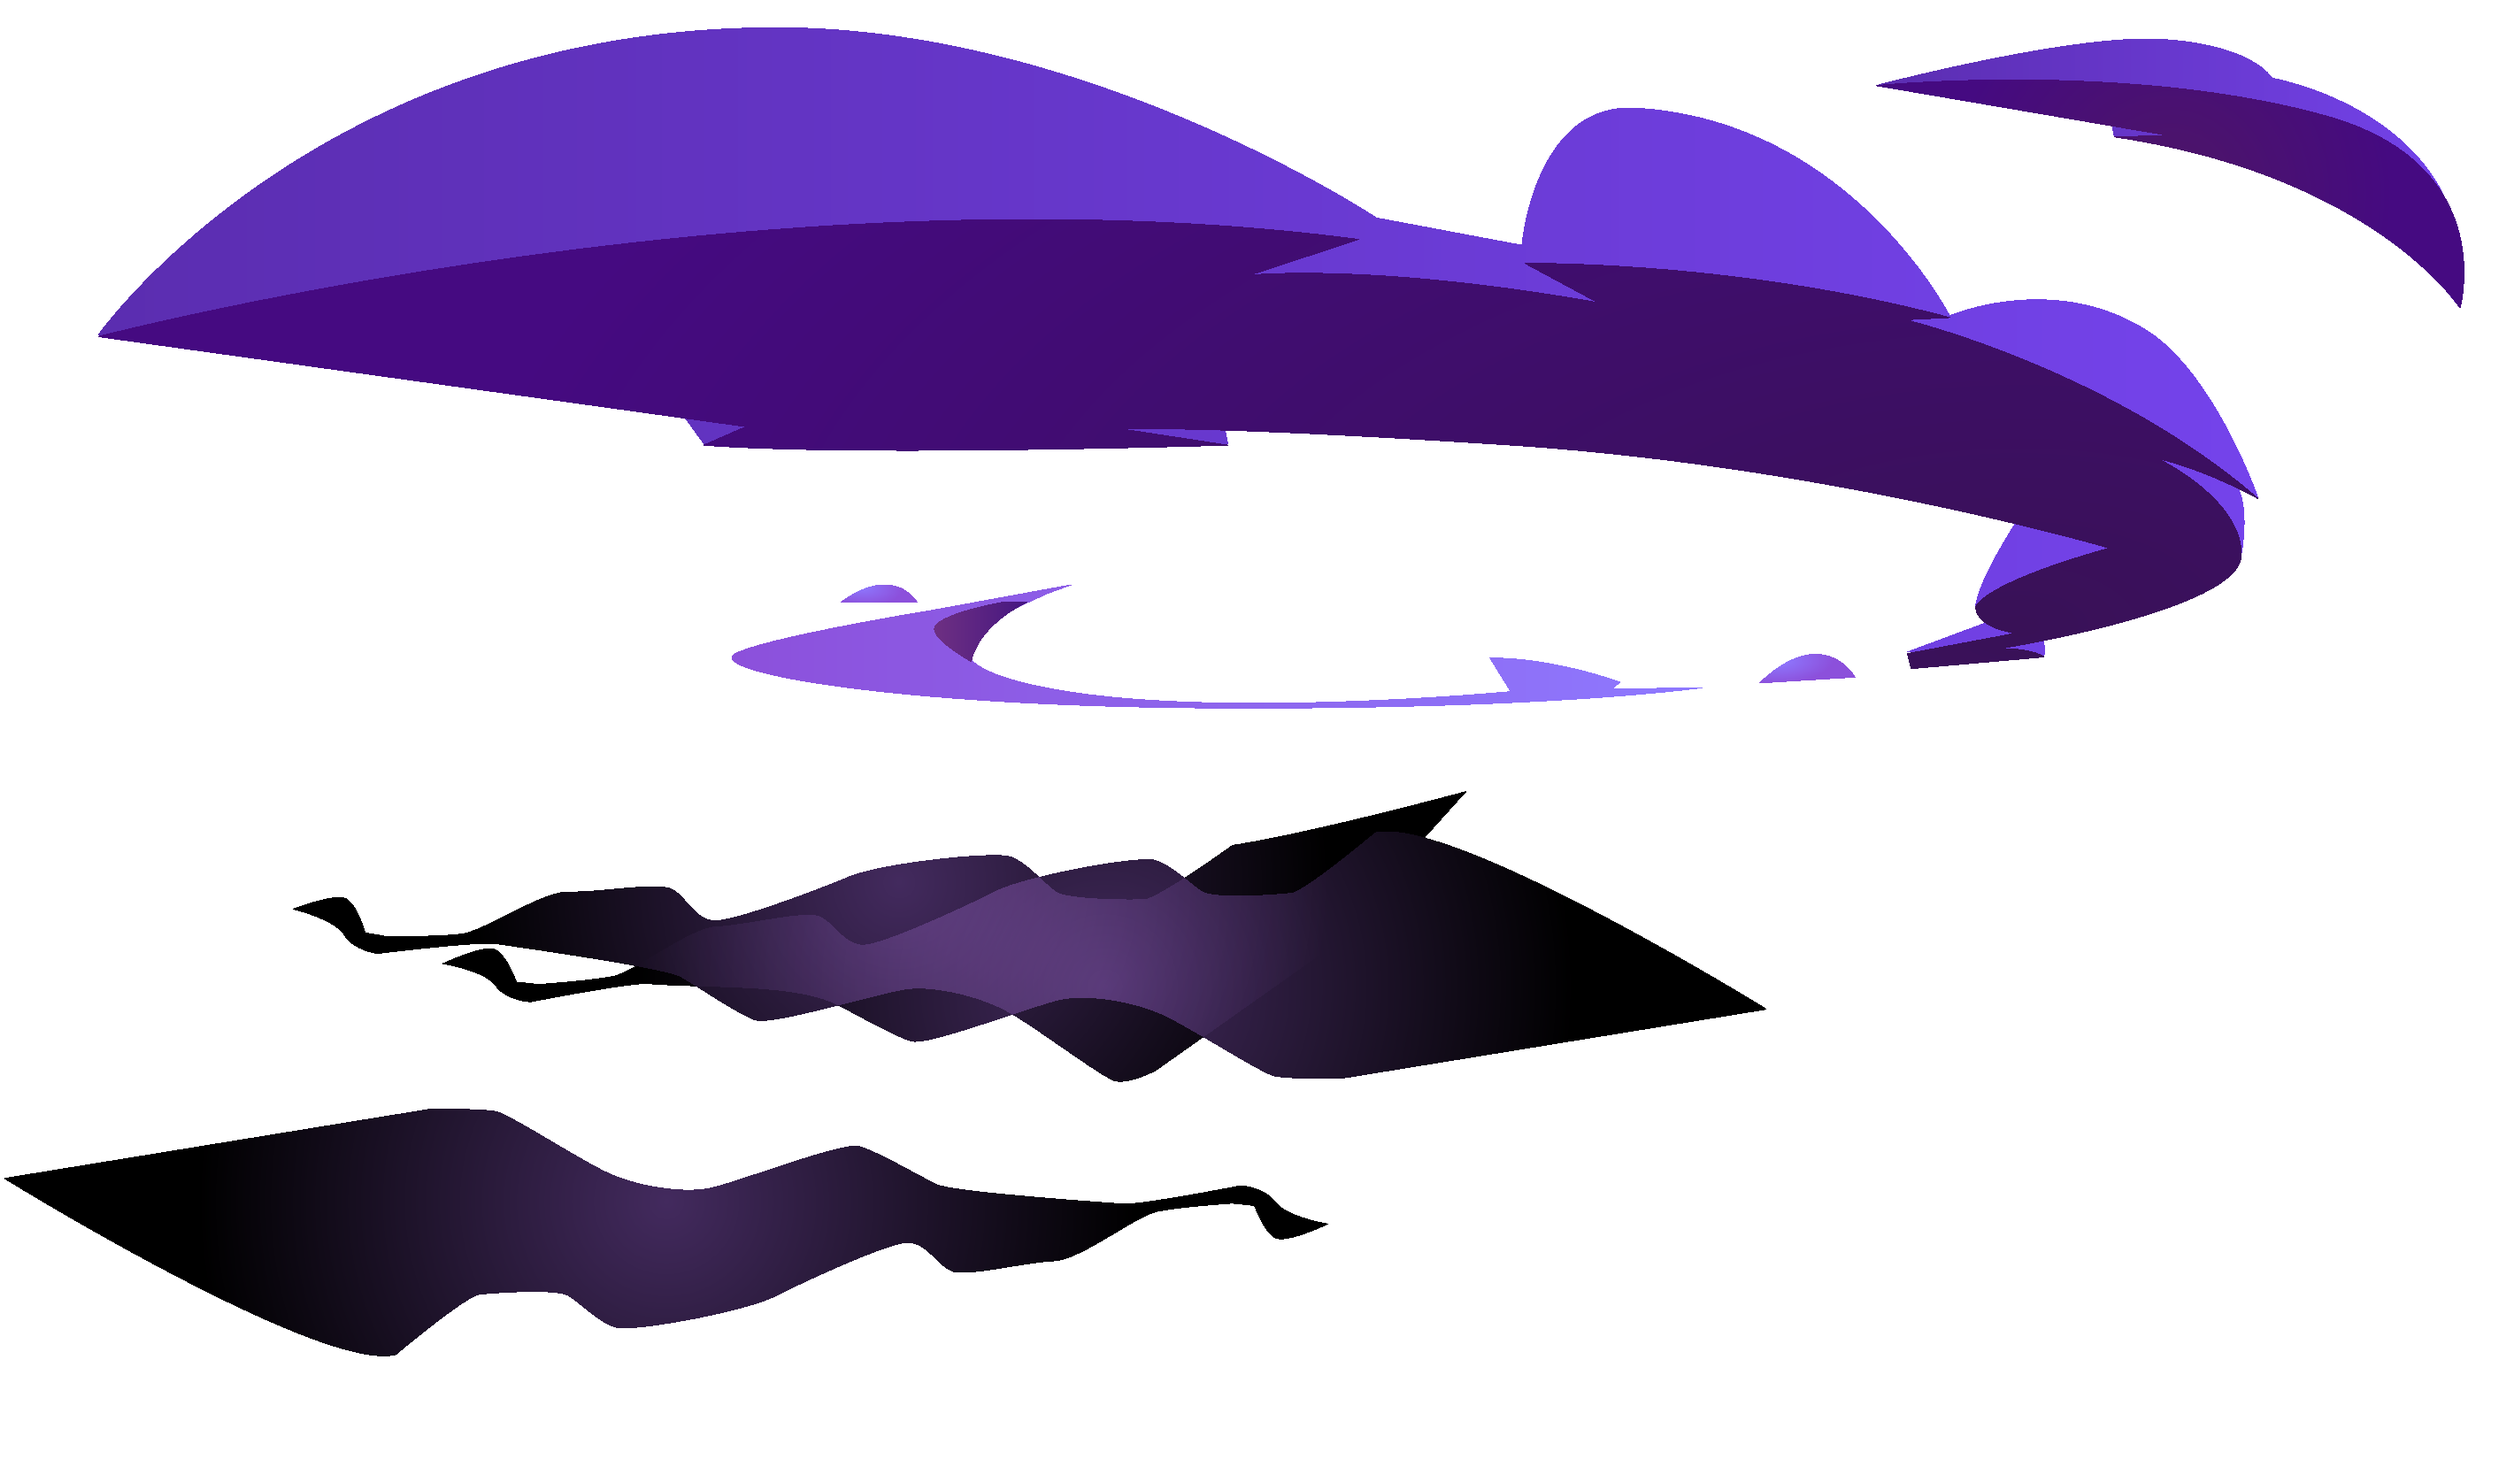
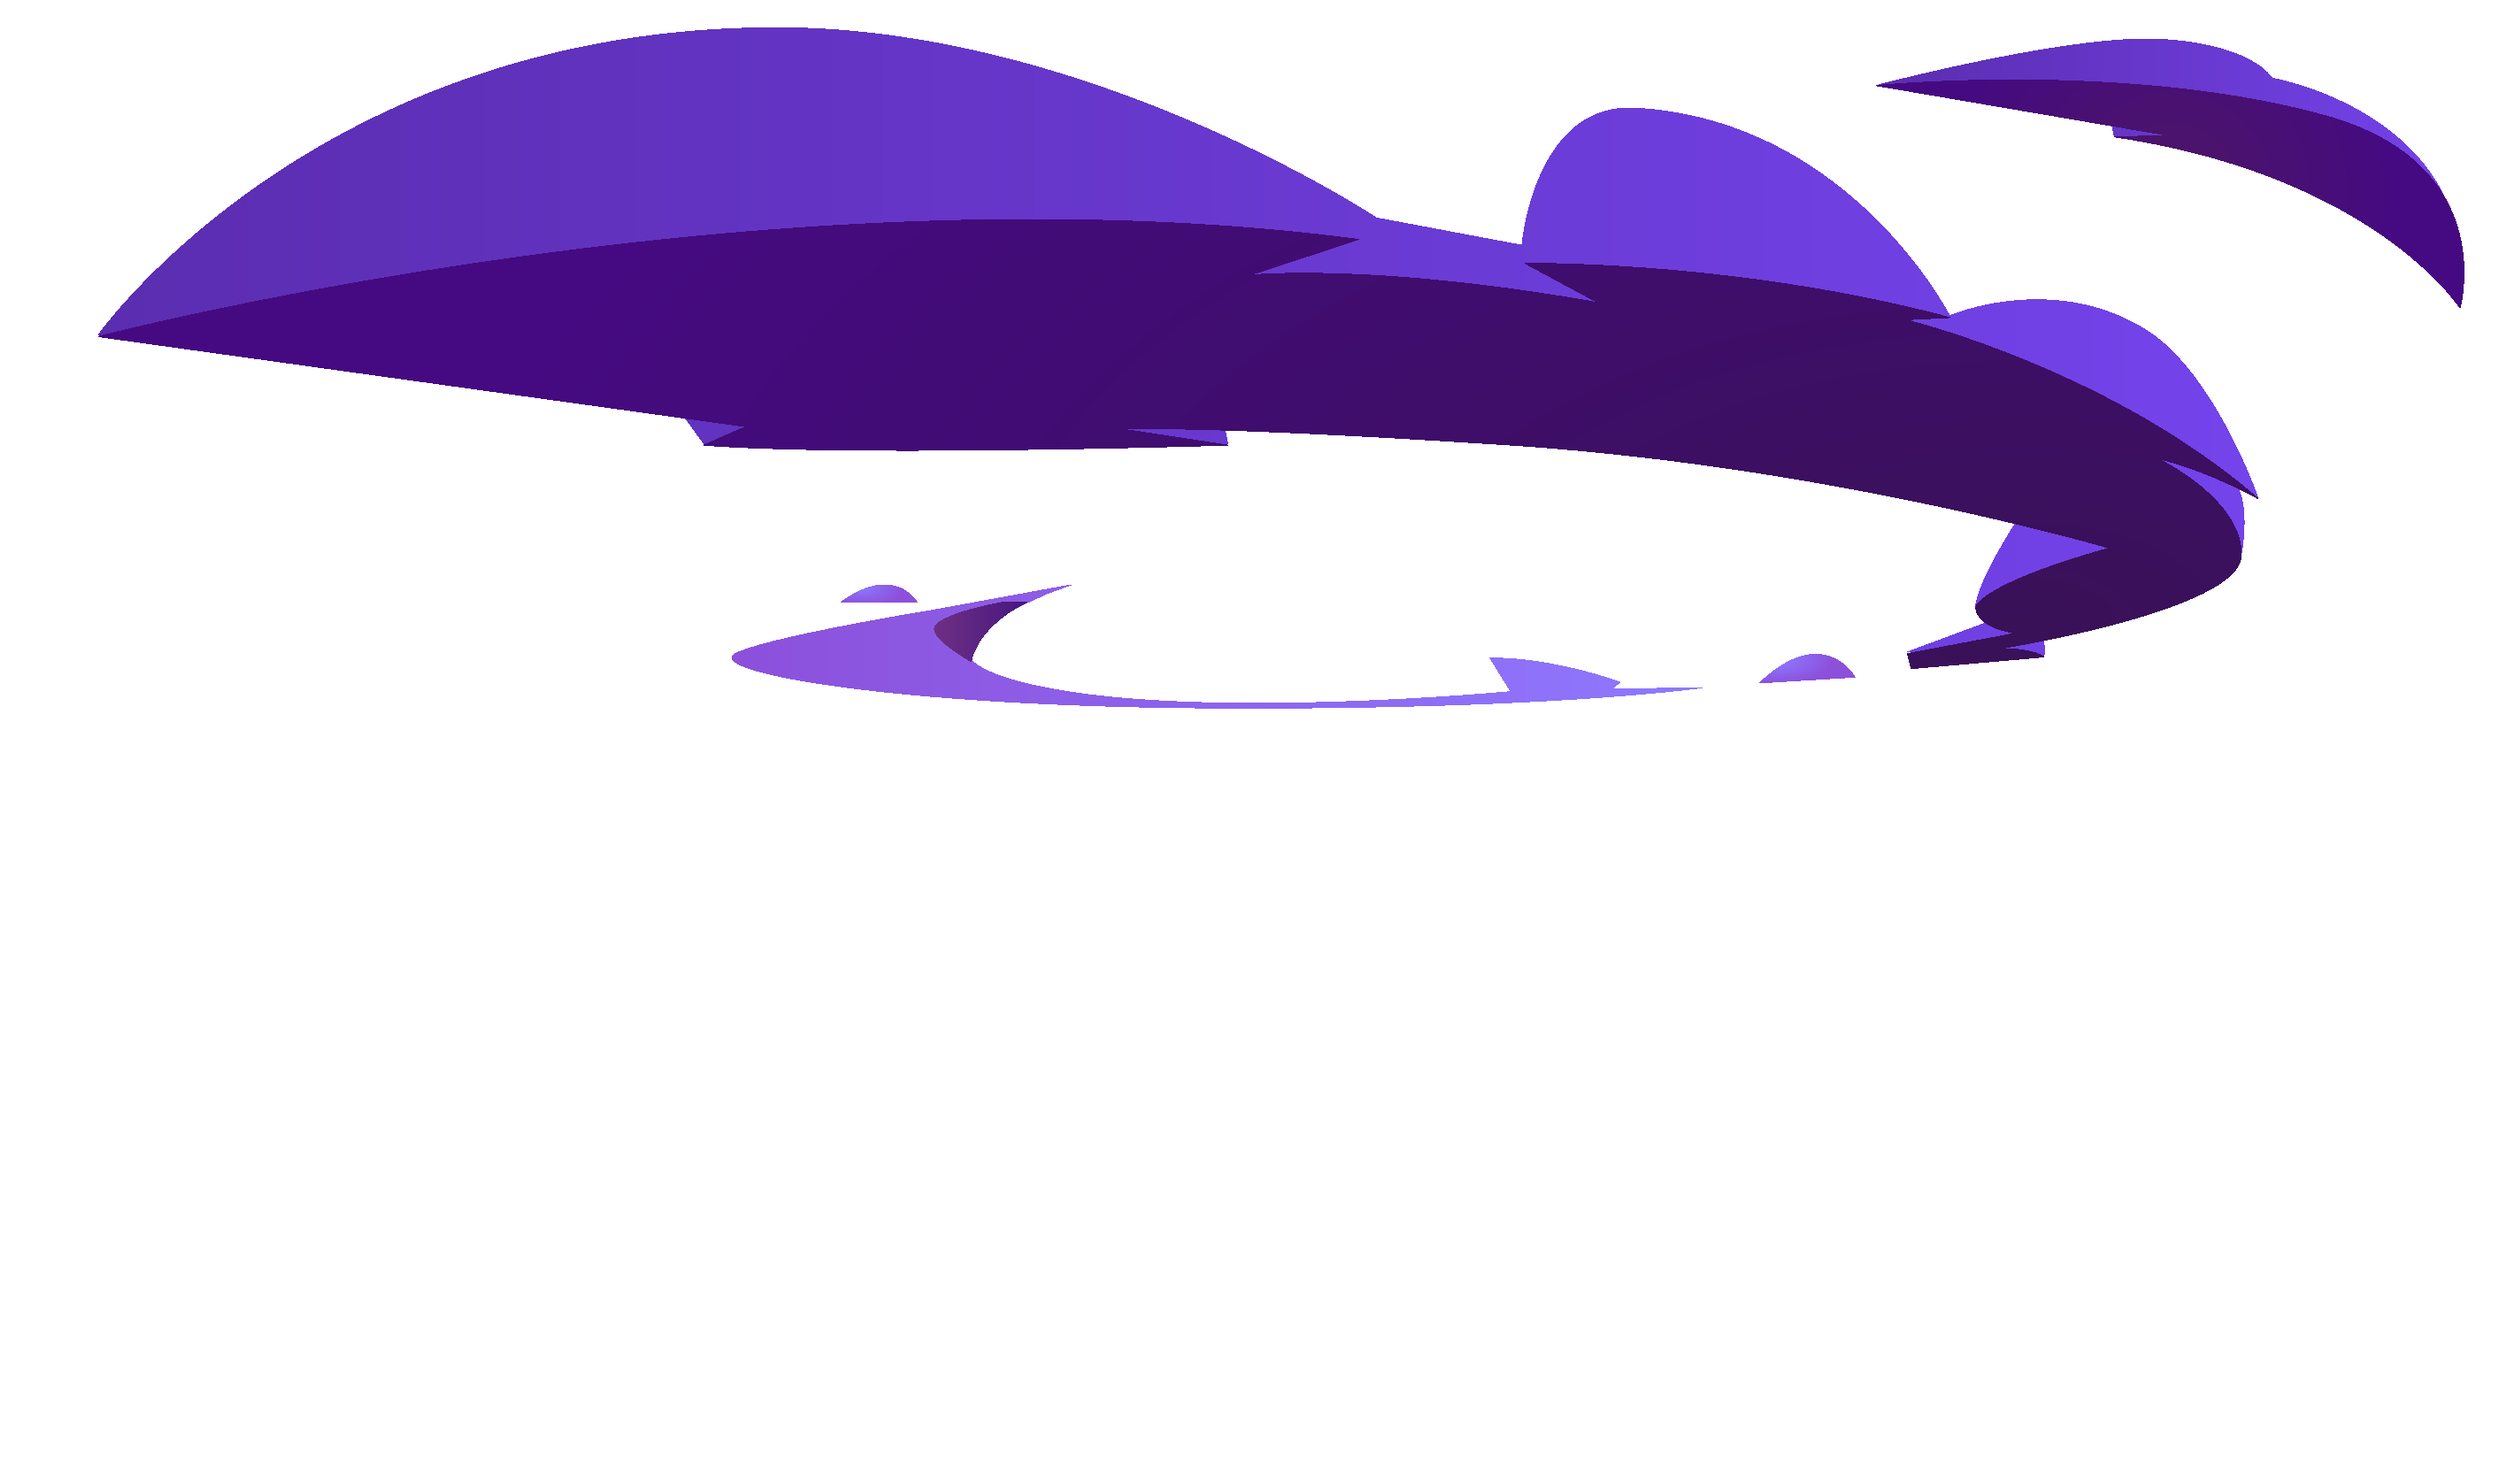
parallax pas fini

Changed region(s): [[0.1246, 0.5303, 0.7167, 0.7487], [0.0, 0.7487, 0.5297, 0.9358]]

diff --git a/frontend/src/components/home/HomeParallax.jsx b/frontend/src/components/home/HomeParallax.jsx
@@ -1,79 +1,115 @@
-import React, { useEffect, useRef } from "react"
+// import React, { useEffect, useRef, useState } from "react"
 
-import cloudsBack from "../../assets/images/parallax/cloudsBack1.png"
-import cloudsFront from "../../assets/images/parallax/cloudsFront1.png"
-import moon from "../../assets/images/parallax/moon1.png"
-import castle from "../../assets/images/parallax/castle1.png"
-import stars from "../../assets/images/parallax/stars1.png"
+// import cloudsBack from "../../assets/images/parallax/cloudsBack1.png"
+// import cloudsFront from "../../assets/images/parallax/cloudsFront1.png"
+// import moon from "../../assets/images/parallax/moonDown2.png"
+// import castle from "../../assets/images/parallax/castle1.png"
+// import stars from "../../assets/images/parallax/stars1.png"
 
-import "./HomeParallax.scss"
+// import "./HomeParallax.scss"
 
-export default function HomeParallax() {
-  const parallaxSectionRef = useRef(null)
-  const castleRef = useRef(null)
-  const cloudsBackRef = useRef(null)
-  const cloudsFrontRef = useRef(null)
-  const moonRef = useRef(null)
-  const starsRef = useRef(null)
+// export default function HomeParallax() {
+//   const parallaxSectionRef = useRef(null)
+//   const castleRef = useRef(null)
+//   const cloudsBackRef = useRef(null)
+//   const cloudsFrontRef = useRef(null)
+//   const moonRef = useRef(null)
+//   const starsRef = useRef(null)
+//   const [scrollPosition, setScrollPosition] = useState(0)
+//   const [scrollPastparallax, setScrollPastParallax] = useState(false)
+//   const [parallaxInProgress, setParallaxInProgress] = useState(false)
 
-  useEffect(() => {
-    const handleScroll = () => {
-      const value = window.scrollY
-      const parallaxSectionHeight = parallaxSectionRef.current.clientHeight
+//   useEffect(() => {
+//     const handleScroll = (e) => {
+//       const value = window.scrollY
+//       const parallaxSectionHeight = parallaxSectionRef.current.clientHeight
 
-      if (value <= parallaxSectionHeight) {
-        // castleRef.current.style.top = value * 0.5 + "px"
-        cloudsBackRef.current.style.left = value * 1 + "px"
-        cloudsFrontRef.current.style.left = value * 1.5 + "px"
-        // moonRef.current.style.top = -value * 1.5 + "px"
-        starsRef.current.style.left = value * 0.25 + "px"
+//       if (value <= parallaxSectionHeight && !parallaxInProgress) {
+//         e.preventDefault()
+//         cloudsFrontRef.current.style.left = -value * 1.5 + "px"
+//         moonRef.current.style.top = value * 1 + "px"
+//         starsRef.current.style.left = value * 0.25 + "px"
 
-        const moonStartPosition = parallaxSectionHeight * 0.5
-        const moonEndPosition = 0
-        const moonPosition =
-          moonStartPosition +
-          (value / parallaxSectionHeight) *
-            (moonEndPosition - moonStartPosition)
-        moonRef.current.style.top = moonPosition + "px"
+//         const moonStartPosition = parallaxSectionHeight * 0.5
+//         const moonEndPosition = 0
+//         const moonPosition =
+//           moonStartPosition +
+//           (value / parallaxSectionHeight) *
+//             (moonEndPosition - moonStartPosition)
+//         moonRef.current.style.top = moonPosition + "px"
 
-        const castleStartPosition = 0
-        const castleEndPosition = parallaxSectionHeight * 0.5
-        const castlePosition =
-          castleStartPosition +
-          (value / parallaxSectionHeight) *
-            (castleEndPosition - castleStartPosition)
-        castleRef.current.style.top = castlePosition + "px"
-      } else {
-        castleRef.current.style.top =
-          parallaxSectionRef.current.clientHeight * 0.5 + "px"
-      }
-    }
+//         const castleStartPosition = 0
+//         const castleEndPosition = parallaxSectionHeight * 0.5
+//         const castlePosition =
+//           castleStartPosition +
+//           ((moonPosition - moonStartPosition) /
+//             (moonEndPosition - moonStartPosition)) *
+//             (castleEndPosition - castleStartPosition)
 
-    window.addEventListener("scroll", handleScroll)
-    return () => {
-      window.removeEventListener("scroll", handleScroll)
-    }
-  }, [])
+//         if (moonPosition <= moonEndPosition) {
+//           castleRef.current.style.transform = `translateY(${castleStartPosition}px)`
+//         } else {
+//           castleRef.current.style.transform = `translateY(${castlePosition}px)`
+//         }
 
-  return (
-    <>
-      <section ref={parallaxSectionRef} className="parallaxSection">
-        <img
-          ref={cloudsBackRef}
-          className="cloudsBackImg"
-          src={cloudsBack}
-          alt=""
-        />
-        <img
-          ref={cloudsFrontRef}
-          className="cloudsFrontImg"
-          src={cloudsFront}
-          alt=""
-        />
-        <img ref={moonRef} className="moonImg" src={moon} alt="" />
-        <img ref={castleRef} className="castleImg" src={castle} alt="" />
-        <img ref={starsRef} className="starsImg" src={stars} alt="" />
-      </section>
-    </>
-  )
-}
+//         setScrollPosition(value)
+
+//         if (!scrollPastparallax) {
+//           setScrollPastParallax(false)
+//         }
+//       } else {
+//         if (!scrollPastparallax) {
+//           castleRef.current.style.transform = `translateY(${
+//             parallaxSectionHeight * 0.5
+//           }px)`
+//           setScrollPastParallax(true)
+//         }
+//       }
+//     }
+
+//     window.addEventListener("scroll", handleScroll, { passive: false })
+//     return () => {
+//       window.removeEventListener("scroll", handleScroll)
+//     }
+//   }, [parallaxInProgress, scrollPastparallax])
+
+//   useEffect(() => {
+//     const parallaxSectionHeight = parallaxSectionRef.current.clientHeight
+//     const onParallaxComplete = () => {
+//       setParallaxInProgress(false)
+//     }
+//     const parallaxDuration = 2000
+//     const timeoutId = setTimeout(onParallaxComplete, parallaxDuration)
+//     setParallaxInProgress(true)
+//     return () => clearTimeout(timeoutId)
+//   }, [])
+
+//   return (
+//     <>
+//       <div className="parallaxMain">
+//         <section ref={parallaxSectionRef} className="parallaxSection">
+//           <img
+//             ref={cloudsBackRef}
+//             className="cloudsBackImg"
+//             src={cloudsBack}
+//             alt=""
+//           />
+//           <img
+//             ref={cloudsFrontRef}
+//             className="cloudsFrontImg"
+//             src={cloudsFront}
+//             alt=""
+//           />
+//           <img ref={moonRef} className="moonImg" src={moon} alt="" />
+//           <img
+//             ref={castleRef}
+//             className={`castleImg ${scrollPastparallax ? "fixed" : ""}`}
+//             src={castle}
+//             alt=""
+//           />
+//           <img ref={starsRef} className="starsImg" src={stars} alt="" />
+//         </section>
+//       </div>
+//     </>
+//   )
+// }

diff --git a/frontend/src/components/home/HomeParallax.scss b/frontend/src/components/home/HomeParallax.scss
@@ -1,76 +1,81 @@
-.parallaxSection {
-  position: relative;
-  width: 100%;
-  height: 100%;
-  padding: 100px;
-  display: flex;
-  justify-content: center;
-  align-items: center;
-  overflow: hidden;
+// .parallaxMain {
+//   height: 100%;
+//     width: 100%;
 
-  .moonImg {
-    mix-blend-mode: screen;
-    position: absolute;
-    top: calc(50% + #{parallaxSectionHeight + 0.5}px);
-    transition: top 0.5s ease-out;
-    left: 50%;
-    width: 100%;
-    height: 100%;
-    object-fit: cover;
-    pointer-events: none;
-    transform: translateX(-50%);
-  }
-  .cloudsBackImg {
-    position: absolute;
-    top: 0;
-    left: 0;
-    width: 100%;
-    height: 100%;
-    object-fit: cover;
-    pointer-events: none;
-  }
-  .cloudsFrontImg {
-    position: absolute;
-    top: 0;
-    left: 0;
-    width: 100%;
-    height: 100%;
-    object-fit: cover;
-    pointer-events: none;
-    z-index: 1001;
-  }
+//   .parallaxSection {
+//     position: relative;
+//     width: 100%;
+//     height: 100%;
+//     display: flex;
+//     justify-content: center;
+//     align-items: center;
+//     overflow: hidden;
 
-  .castleImg {
-    position: absolute;
-    top: 0;
-    // left: 0;
-    width: 100%;
-    height: 100%;
-    object-fit: cover;
-    pointer-events: none;
+//     .moonImg {
+//       mix-blend-mode: screen;
+//       position: absolute;
+//       top: calc(50% + #{parallaxSectionHeight + 0.5}px);
+//       transition: top 0.5s ease-out;
+//       left: 50%;
+//       width: 100%;
+//       height: 100%;
+//       object-fit: cover;
+//       pointer-events: none;
+//       transform: translateX(-50%);
+//     }
+//     .cloudsBackImg {
+//       position: absolute;
+//       top: 0;
+//       left: 0;
+//       width: 100%;
+//       height: 100%;
+//       object-fit: cover;
+//       pointer-events: none;
+//     }
+//     .cloudsFrontImg {
+//       position: absolute;
+//       top: 0;
+//       left: 0;
+//       width: 100%;
+//       height: 100%;
+//       object-fit: cover;
+//       pointer-events: none;
+//       z-index: 1001;
+//     }
 
-    // position: fixed;
-    left: 50%;
-    transform: translateX(-50%);
-    transition: top 0.5s ease-out;
-  }
-  .starsImg {
-    position: absolute;
-    top: 0;
-    left: 0;
-    width: 100%;
-    height: 100%;
-    object-fit: cover;
-    pointer-events: none;
-  }
-}
+//     .castleImg {
+//       position: absolute;
+//       top: 0;
+//       left: 0;
+//       width: 100%;
+//       height: 100%;
+//       object-fit: cover;
+//       pointer-events: none;
 
-.parallaxSection::before{
-  content: "";
-  position: absolute;
-  bottom: 0;
-  width: 100%;
-  height: 100%;
-  z-index: 1000;
-}
+//       &.fixed {
+//       // left: 50%;
+//       transform: translateX(-50%);
+//       top: 0;
+//       transition: top 0.5s ease-out;
+//       }
+//     }
+//     .starsImg {
+//       position: absolute;
+//       top: 0;
+//       left: 0;
+//       width: 100%;
+//       height: 100%;
+//       object-fit: cover;
+//       pointer-events: none;
+//     }
+//   }
 
+//   .parallaxSection::before{
+//     content: "";
+//     position: absolute;
+//     bottom: 0;
+//     width: 100%;
+//     height: 100%;
+//     z-index: 1000;
+//   }
+// }

diff --git a/frontend/src/pages/Home.jsx b/frontend/src/pages/Home.jsx
@@ -1,11 +1,13 @@
-import HomeParallax from "../components/home/HomeParallax"
+// import HomeParallax from "../components/home/HomeParallax"
 import "./Home.scss"
 import Footer from "../components/global/Footer"
+import noParallaxImg from "../assets/images/parallax/castleNewSize1.png"
 export default function Home() {
   return (
     <>
       <section className="home__hero">
-        <HomeParallax />
+        {/* <HomeParallax /> */}
+        <img className="noParallax" src={noParallaxImg} alt="castle" />
       </section>
       <main className="home__content">
         <section className="home__content__description"></section>

diff --git a/frontend/src/pages/Home.scss b/frontend/src/pages/Home.scss
@@ -11,7 +11,12 @@
     box-sizing: border-box;
     // border: 10px solid green;
     // background-color: purple;
-    background-image: url(../assets/images/parallax/sky.png);
+    // background-image: url(../assets/images/parallax/sky.png);%
+
+    .noParallax {
+      height: 100%;
+      width: auto;
+    }
   }
 
 
